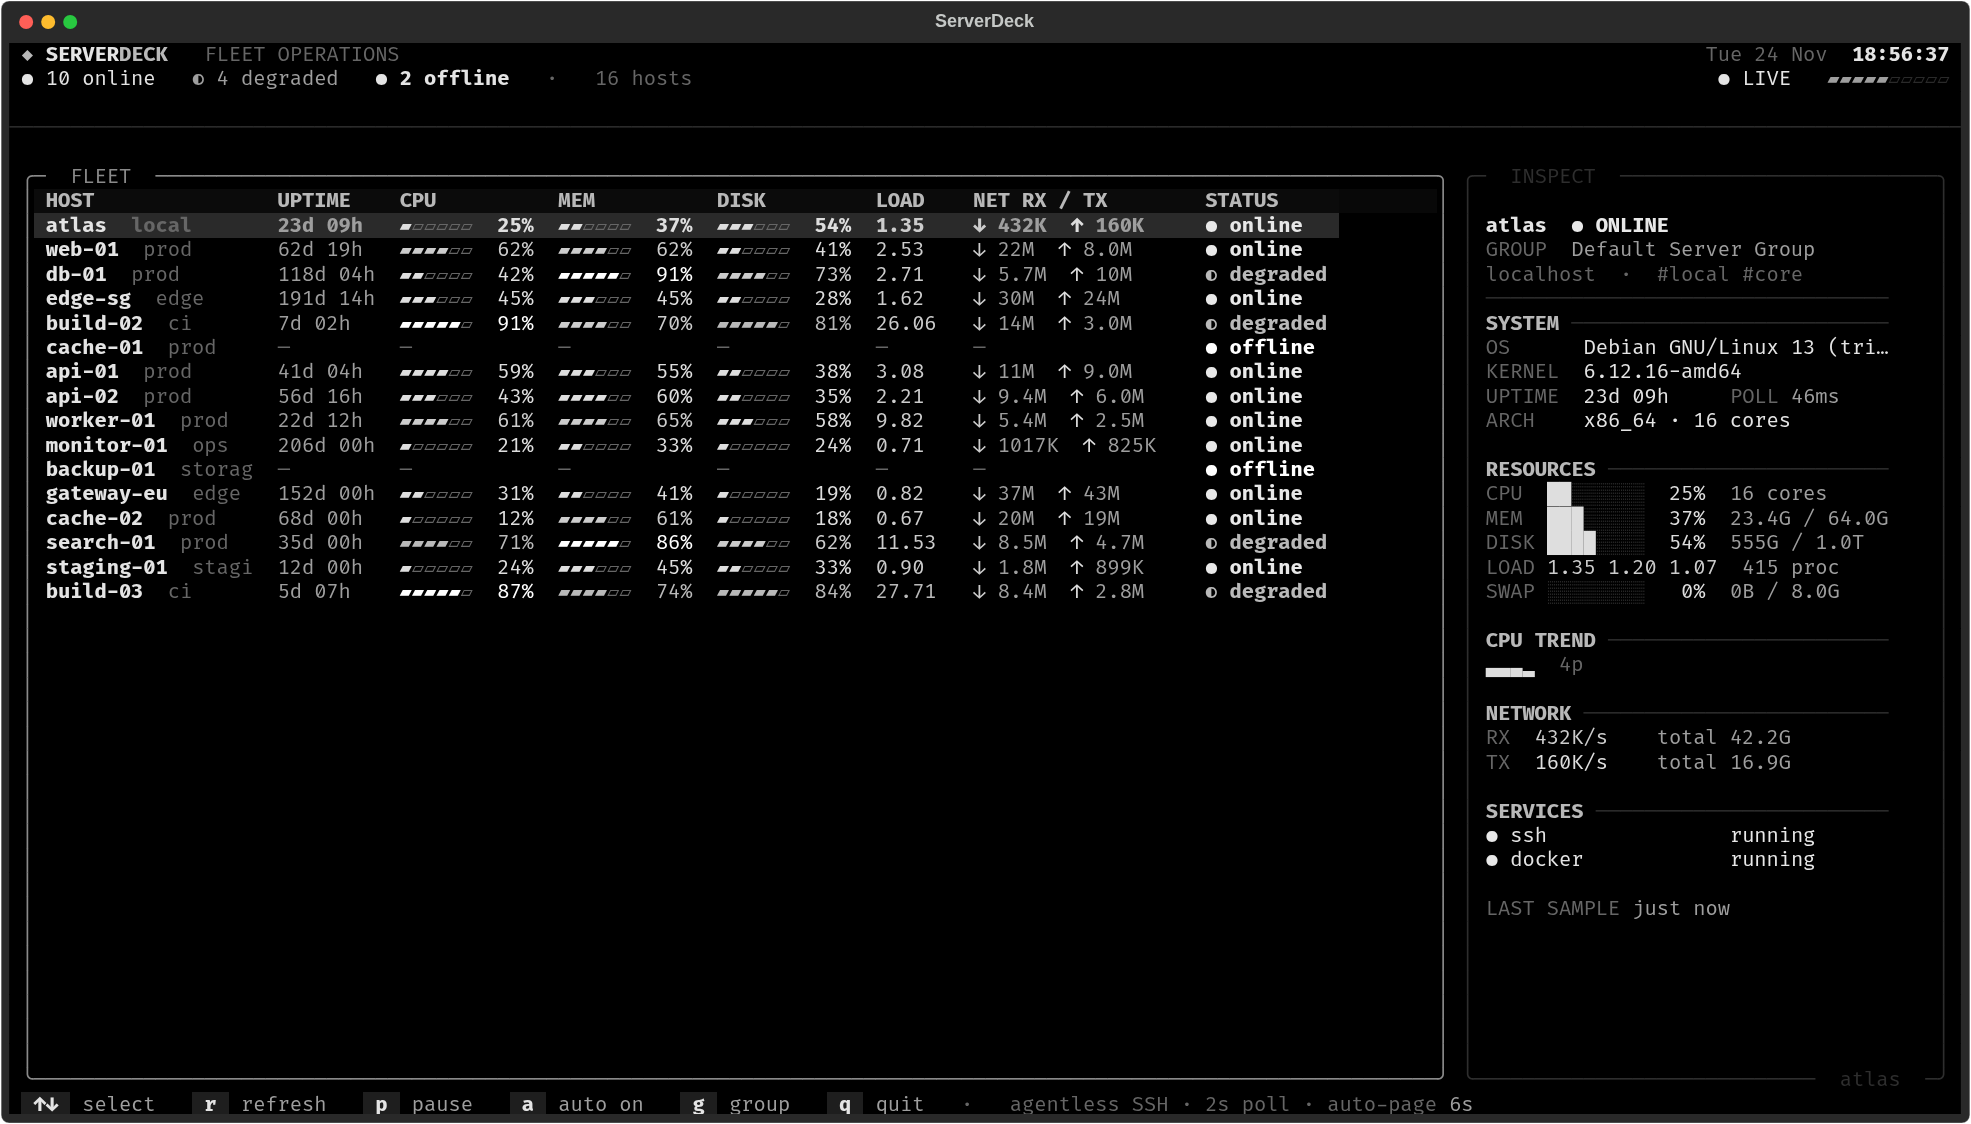
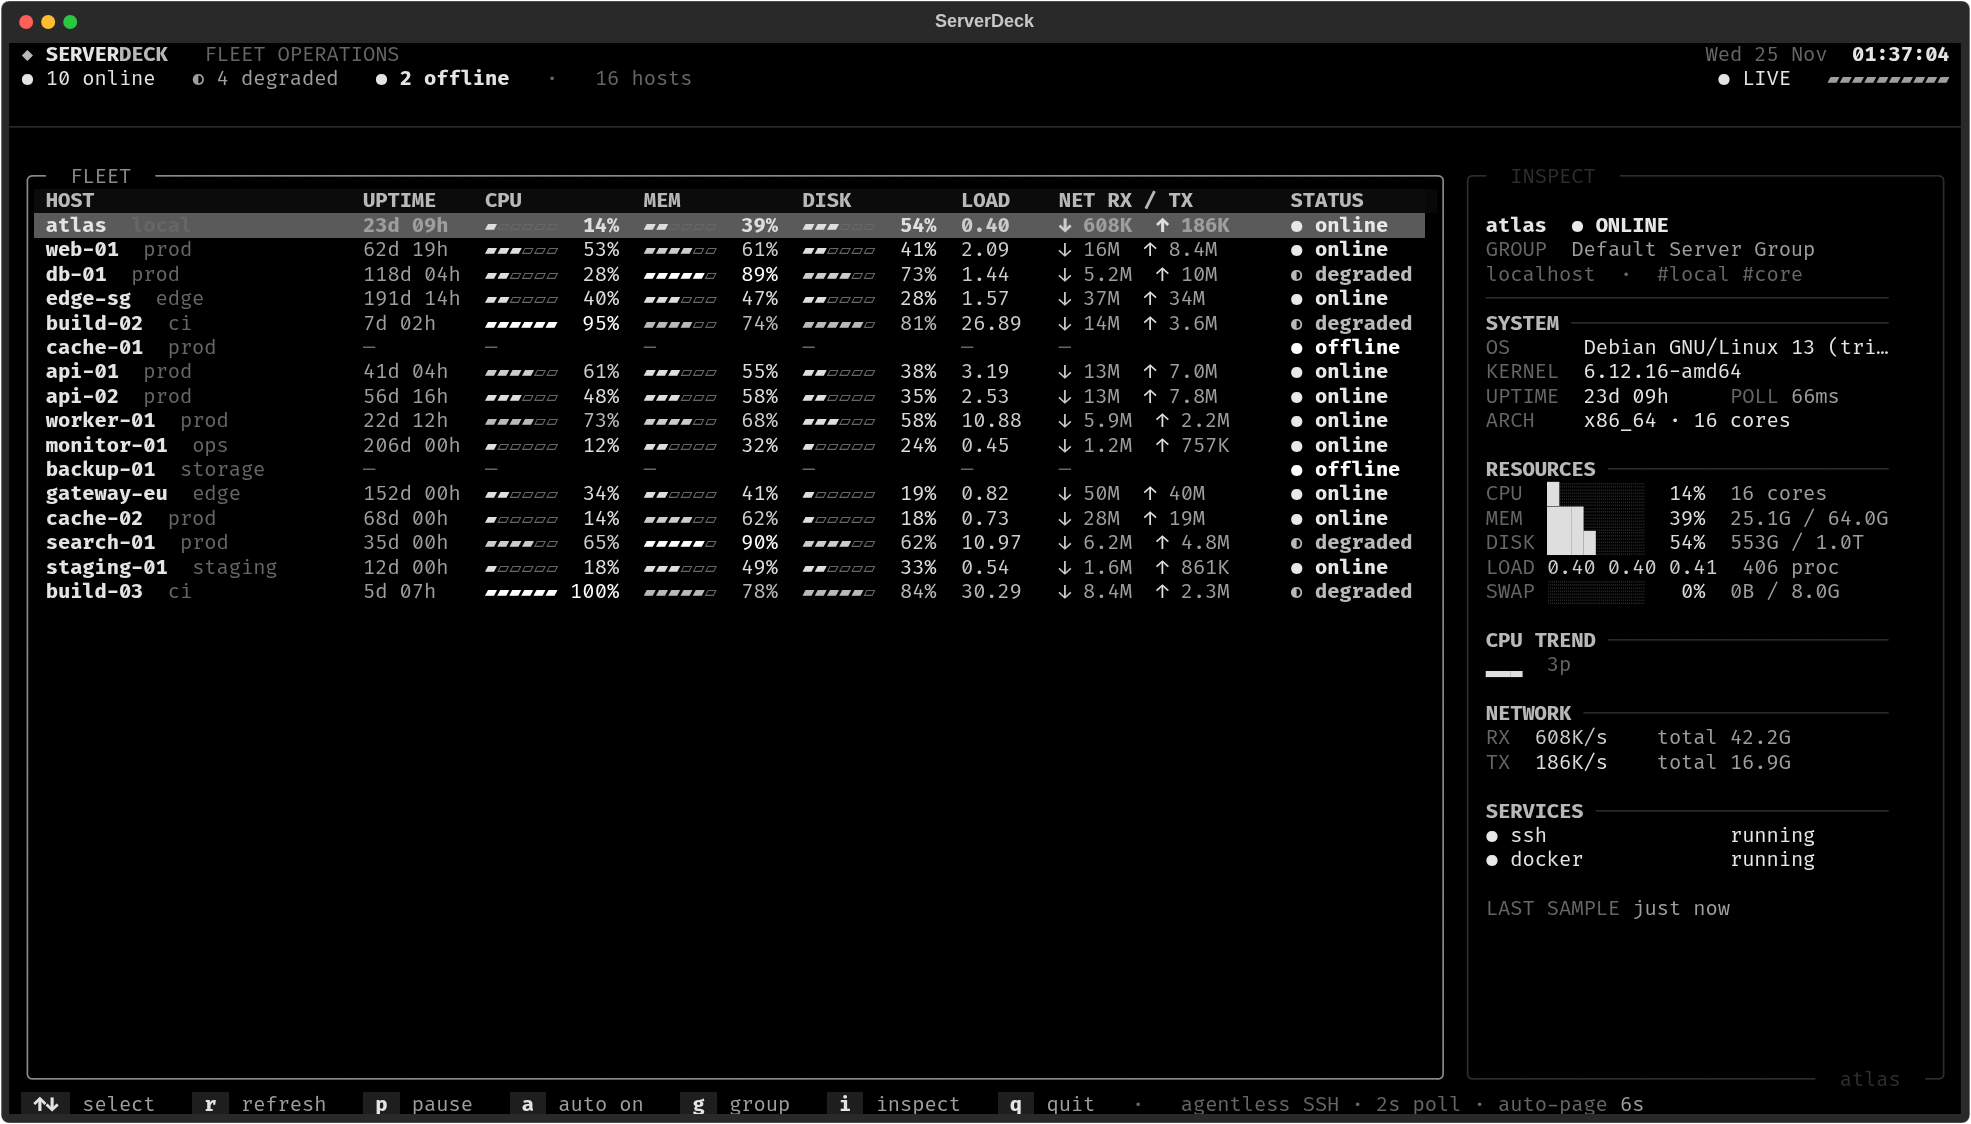
Refresh theme screenshots and restore default inspect panel

diff --git a/README.md b/README.md
@@ -224,7 +224,7 @@ chmod 600 ~/.ssh/known_hosts
 | `p` | 暂停/恢复自动刷新和自动翻页 |
 | `a` | 临时开启/关闭自动翻页 |
 | `g` | 切换服务器群组筛选 |
-| `i` | 显示/隐藏右侧 INSPECT 详情（窄屏默认隐藏，优先显示完整表格） |
+| `i` | 显示/隐藏右侧 INSPECT 详情；隐藏后表格使用全宽 |
 | `q` | 退出 |
 
 表格列顺序为 `HOST → UPTIME → CPU → MEM → DISK → LOAD → NET → STATUS`，`STATUS` 在宽屏表格的最右侧。
@@ -291,7 +291,7 @@ sudo usermod -aG video "$USER"
 # 如果普通用户启动提示 Operation not permitted：
 sudo setcap cap_sys_tty_config+ep /usr/bin/fbterm
 # 重新登录后
-fbterm -n "DejaVu Sans Mono" -s 16 --font-width=8 --font-height=16
+fbterm -n "DejaVu Sans Mono" -s 16 --font-width=7 --font-height=16
 ```
 
 `fbterm` 需要能读写 `/dev/fb0`，所以当前用户必须在 `video` 组；它支持 256 色和正常等宽字体，适合直接占用物理 TTY。没有 `fbterm` 时仍可用 `console` 主题。
@@ -356,7 +356,7 @@ serverdeck --theme console   # 8 色物理终端：高对比 + ASCII 进度条
 | `midnight` | `#060d14` 深蓝黑 | 亮绿/亮红/青 | 原版深蓝观感、普通桌面终端 |
 | `console` | `#000000` 纯黑 | 高对比 ANSI 8 色 + ASCII 进度条 | Linux 物理 TTY、8 色终端、老式控制台 |
 
-主题只改变颜色；表格列数和侧栏由终端宽高决定。低于 160 列时默认隐藏侧栏、显示 8 列完整表格，按 `i` 可以查看详情。
+主题只改变颜色；表格列数和侧栏由终端宽高决定。默认显示详情侧栏，按 `i` 可以切换为全宽单列表。
 
 主题预览（`console` 适合直接看物理 TTY，不依赖 RGB 色板）：
 
@@ -364,13 +364,16 @@ serverdeck --theme console   # 8 色物理终端：高对比 + ASCII 进度条
 - [mono 纯黑单色](assets/theme-mono.png)
 - [black 纯黑彩色](assets/theme-black.png)
 - [midnight 深海军蓝](assets/theme-midnight.png)
+- [console 高对比 8 色终端](assets/theme-console.png)
 
 布局会随终端大小变化：
 
 - `≥ 160` 列：8 列完整表格 + 详情侧栏
-- `< 160` 列：默认全宽 8 列表格，无侧栏；按 `i` 显示/隐藏详情
-- 显示详情时：128–135 列使用 6 列紧凑表格，146–159 列使用 8 列紧凑表格
-- `< 112` 列：紧凑表格，无侧栏
+- `146–159` 列：8 列紧凑表格 + 详情侧栏（物理 146×48 控制台使用这一档）
+- `136–145` 列：6 列精简表格 + 详情侧栏
+- `128–135` 列：6 列紧凑表格 + 详情侧栏
+- `< 128` 列：默认无详情侧栏
+- 任意布局按 `i` 可切换详情侧栏；隐藏后表格使用全宽
 
 状态含义：
 
